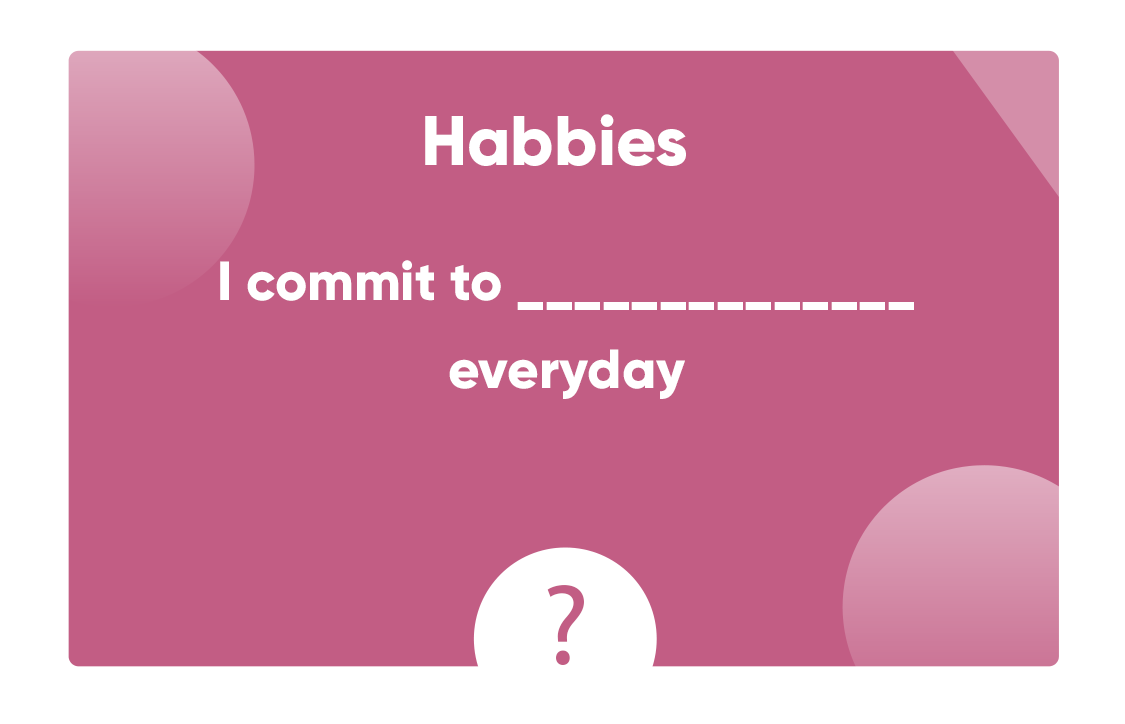
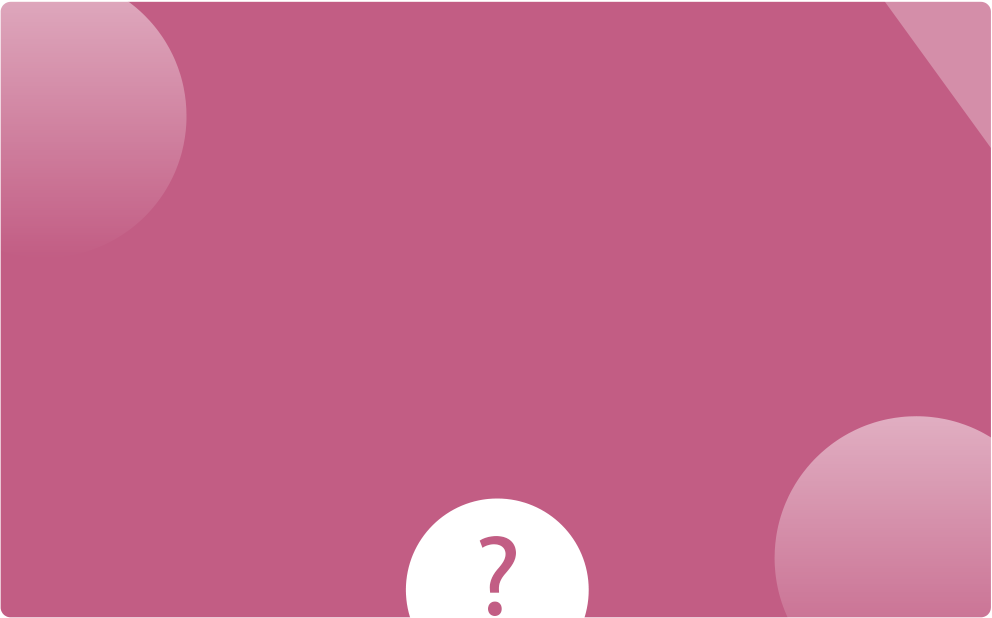
New

diff --git a/src/app/components/goal2/goal2.component.html b/src/app/components/goal2/goal2.component.html
@@ -26,19 +26,29 @@
         <span class="example-spacer"><span class="font-gilroy-bold">Set your goal</span></span>        
       </mat-toolbar>
       <!--Tool Bar--> 
-      <img class="img wd-100 pointer mt-4" src="./assets/images/m5.png">
+      <div class="m5 m-4 p-3">
+        <h2 class="text-center text-white font-gilroy-bold font-24">
+          Habbies
+        </h2>
+
+        <div class="text-center text-white font-gilroy-light  font-21 mt-4"
+        >
+        I commit to <input type="text" id="text" name="text" class="input-text"> everyday
+      </div>
+
+      </div>
 
       <div class="row justify-content-center text-center">
-        <div class="col-9 input-box pt-3 pb-3">
+        <div class="col-10 input-box pt-3 gap-3 pb-3">
       <form action="">
-        <label for="fname">Input Field: </label>  
+        <label for="fname">Input Field: &nbsp;</label>  
         <input class="text" type="text" id="fname" name="fname">
        
       </form>
       </div></div>
 
       <div class="text-center pt-5">
-        <div class="d-grid gap-2 p-3">
+        <div class="d-grid gap-4 p-3">
         <button class="btn btn-primary btn-block" routerLink="/goal1">Next</button>
     </div>
       </div>

diff --git a/src/app/components/goal2/goal2.component.css b/src/app/components/goal2/goal2.component.css
@@ -808,3 +808,20 @@
       height: 10px;
       border-radius: 50%;
   }
+
+  .m5{
+    background: url("../../../assets/images/m5.png") no-repeat top left;
+    background-size:100%;
+    height: 220px;
+
+  }
+
+  .input-text{
+    background-color: transparent;
+    border-bottom:1px dashed #fff;
+    border-left:0;
+    border-right:0;
+    border-top:0;
+    box-shadow: none;
+    width: 60%;
+  }
